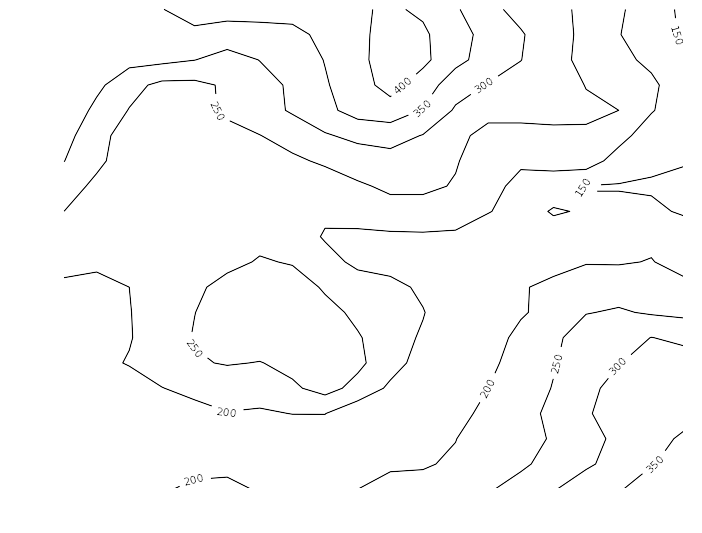
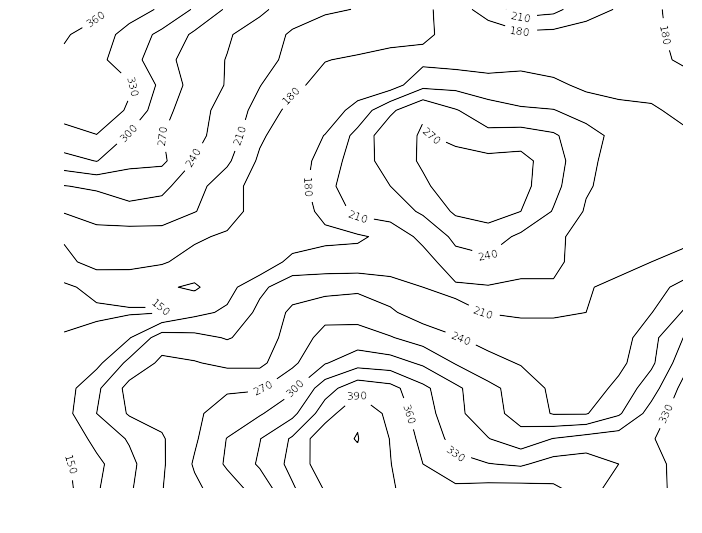
Show contours on satellite view

diff --git a/templates/map/home.html b/templates/map/home.html
@@ -25,9 +25,16 @@
 
         /*Construct an instance of MQA.TileMap with the options object*/
         window.map = new MQA.TileMap(options);
-        
-		        
+       
+		   
+		MQA.withModule('viewoptions', function() {
+		    window.map.addControl(
+      			new MQA.ViewOptions()
+		    );
+ 		 });
+       
 		MQA.EventManager.addListener(window.map, 'moveend', eventMoveEnd);
+		MQA.EventManager.addListener(map, 'maptypechanged', eventMoveEnd);
  		eventMoveEnd(null);
  		
  		var imageOverlay;
@@ -47,7 +54,7 @@
     				map.removeShape(imageOverlay);
     			}
    				imageOverlay = new MQA.ImageOverlay(); 
-    			imageOverlay.imageURL="/contour_image/?ul=" + currentUpperLeftLat + ',' + currentUpperLeftLng + '&lr=' + currentLowerRightLat + ',' + currentLowerRightLng;
+    			imageOverlay.imageURL="/contour_image/?ul=" + currentUpperLeftLat + ',' + currentUpperLeftLng + '&lr=' + currentLowerRightLat + ',' + currentLowerRightLng + '&mtype=' + window.map.getMapType();
 
 			    /*Sets the shape points. They must be in the following order [upper left latitude, upper left longitude, 
     			lower right latitude, lower right longitude] to define the upper left and lower right corners of the rectangle.*/ 

diff --git a/map/views.py b/map/views.py
@@ -18,9 +18,12 @@ def home(request):
     return render_to_response( 'map/home.html', context_instance=RequestContext(request))
 
 def contour_image(request):
+    
+    mtype = request.GET.get('mtype')
     ul = request.GET.get('ul')
     lr = request.GET.get('lr')
     print "Parameters"
+    print "Map type: ", mtype
     print "Upper Left: ", ul
     print "Lower Right: ", lr
     
@@ -30,14 +33,14 @@ def contour_image(request):
     print ("lat from %s to %s" % (upper_lat, lower_lat))
     print ("lng from %s to %s" % (left_lng, right_lng))
     
-    grid2(float(upper_lat), float(lower_lat), float(left_lng), float(right_lng))
+    grid(float(upper_lat), float(lower_lat), float(left_lng), float(right_lng), mtype)
     
     image_data = open("test_cropped.png", "rb").read()
     return HttpResponse(image_data, mimetype="image/png")
 
     #return render_to_response('map/contour_image.html')
 
-def grid (upper_lat, lower_lat, left_lng, right_lng):
+def grid (upper_lat, lower_lat, left_lng, right_lng, mtype):
     print "generating grid with divsions %f " % GRID_DIVISIONS
     print ("lat from %.6f to %.6f" % (upper_lat, lower_lat))
     print ("lng from %.6f to %.6f" % (left_lng, right_lng))
@@ -81,7 +84,7 @@ def grid (upper_lat, lower_lat, left_lng, right_lng):
     response = urllib2.urlopen(full_url)
     print "*************"
     resp_string = response.read()
-    print resp_string
+    #print resp_string
     results = json.loads(resp_string)
     #pp = pprint.PrettyPrinter(indent=4)
     #pp.pprint(results['elevationProfile'])
@@ -95,15 +98,18 @@ def grid (upper_lat, lower_lat, left_lng, right_lng):
     for lat in lats:
         row = []
         for lng in lngs:
-            row.append(results['elevationProfile'][index]['height'])
+            row.insert(0,results['elevationProfile'][index]['height'])
             index = index + 1
-        hts.append(row)
-    print hts
+        hts.insert(0,row)
+    #print hts
     
     plt.figure(facecolor='0000')
     plt.axes().set_axis_off()
 
-    CS = plt.contour(lats, lngs, np.array(hts), 6, colors='000',)
+    if (mtype != 'map'):
+        CS = plt.contour(lats, lngs, np.array(hts), 10, colors='#999999',)
+    else:
+        CS = plt.contour(lats, lngs, np.array(hts), 10, colors='#000000',)
 
     plt.clabel(CS,  # label every second level
            inline=1,
@@ -167,9 +173,9 @@ def grid2 (upper_lat, lower_lat, left_lng, right_lng):
         index = 0
         row = []
         for lng in lngs:
-            row.append(results['elevationProfile'][index]['height'])
+            row.insert(0,results['elevationProfile'][index]['height'])
             index = index + 1
-        hts.append(row)
+        hts.insert(0,row)
                 
     #for result in results['elevationProfile']:
     #    hts.append(result['height'])
